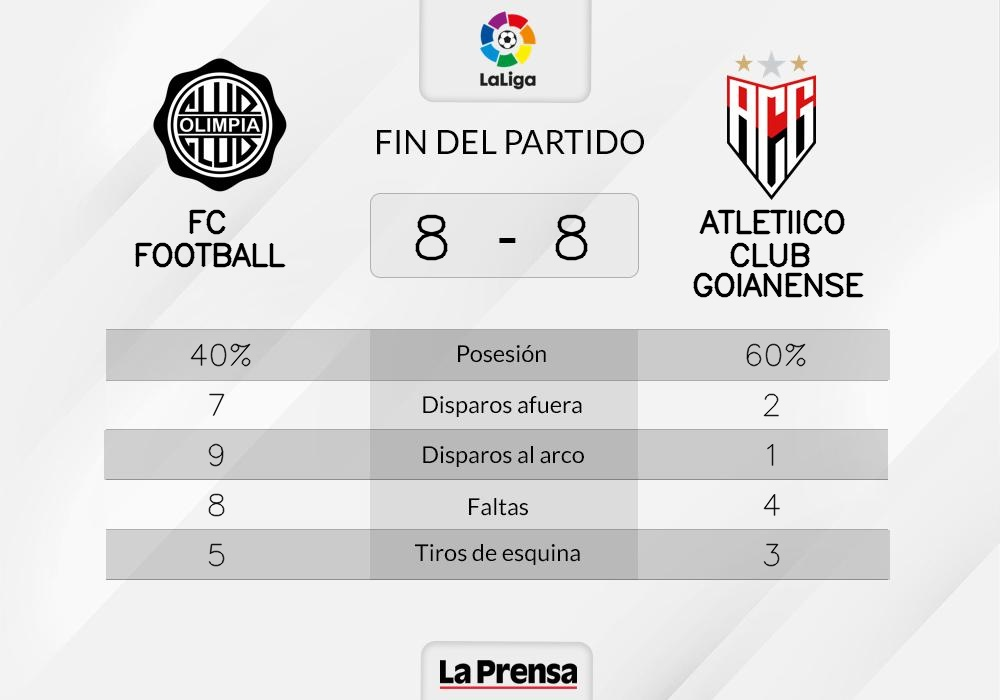
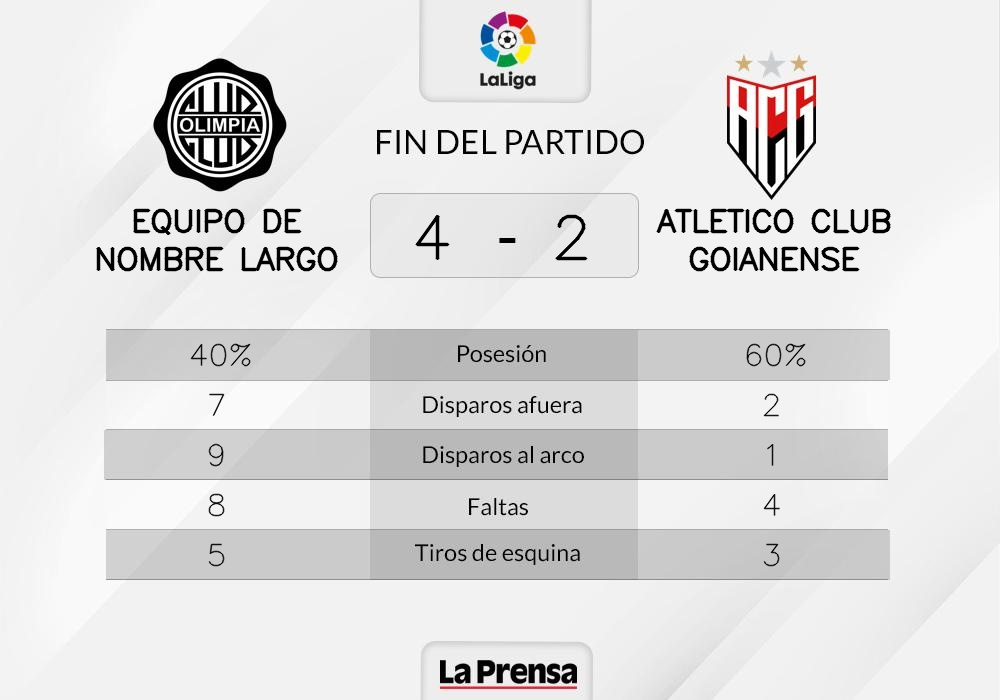
refactorin functions

diff --git a/textImage.py b/textImage.py
@@ -1,9 +1,9 @@
 # LIBRERIA PARA IMAGENES
-from ntpath import join
 from PIL import Image
 
 #LIBRERIA PARA TEXTOS
 import cv2
+import textwrap
 
 # REMOVER ARCHIVOS 
 from os import remove
@@ -13,12 +13,66 @@ from cv2 import getTextSize
 import requests as req
 from io import BytesIO
 
+#MANEJO DE ARREGLOS
+import numpy as np
 
-# VARIABLES
 
-# EQUIPO IZQUIERDA
+################## FUNCIONES ###################
+
+# ESCRIBE Y HACE WRAP DE LOS NOMBRES DE LOS EQUPOS DADO UN TEXTO Y COORDENADAS
+def writeTeam (text,sizex,sizey):
+
+    text_img = np.ones((40, 200))
+    font = cv2.FONT_HERSHEY_SIMPLEX
+
+    wrapped_text = textwrap.wrap(text, width=15)
+    x, y = 10, 50
+    font_size = 1
+    font_thickness = 2
+
+    for i, line in enumerate(wrapped_text):
+        textsize = cv2.getTextSize(line, font, font_size, font_thickness)[0]
+
+        gap = textsize[1] + 16
+
+        y = int((sizex + textsize[1]) / 2) + i * gap
+        x = int((sizey - textsize[0]) / 2)
+
+        cv2.putText(img, line, (x, y), font,
+                    font_size, 
+                    (0,0,0), 
+                    font_thickness, 
+                    lineType = cv2.LINE_AA)
+
+
+# ESCRIBE DATOS DE TABLA DE ESTADISTICAS
+def writeDataTable(arrayData,position):
+    for i in range(len(arrayData)):
+        calc = len(arrayData[i]) * 18 / 2
+        pos = position[0] - round(calc)
+        cv2.putText(img, arrayData[i], (pos, position[1] + i*50), cv2.FONT_HERSHEY_SIMPLEX, 1, (0,0,0), 1, cv2.LINE_AA, False)
+
+
+
+# FUNCION PARA CALCULA EL CENTRO POR EL TAMAÑO DEL STRING
+def calcularCentro(cadena, pos):
+    countLetterI = 0
+    calc = len(cadena) * 18 / 2
+    posIzq = pos - round(calc)
+    countLetterI = (cadena.count('I'))
+    return posIzq + (countLetterI*8)
+
+
+
+############################################### VARIABLES ###############################################
+
+
+################# EQUIPO IZQUIERDA ################# 
 logoIzq = 'https://cdn.api.everysport.com/logos/fotboll/olimpia_190518/1641998342298.png'
-gols_one = "8"
+
+nameTeamIzq = ("equipo de nombre largo").upper()
+
+gols_one = "4"
 
 
 # DATOS DE TABLA
@@ -30,9 +84,13 @@ equipoIzq = [
     "5"
 ]
 
-# EQUIPO DERECHA
+
+################# EQUIPO DERECHA ################# 
 logoDer = 'https://cdn.api.everysport.com/logos/fotboll/atletico_club_goianense_158404/1654764046179.png'
-gols_two = "8"
+
+nameTeamDer = ("Atletico Club Goianense").upper()
+
+gols_two = "2"
 
 
 # DATOS DE TABLA
@@ -45,40 +103,34 @@ equipoDer = [
 ]
 
 
-# REQUEST DE LOGO CENTRAL ( LIGA )
-try:                    
-    response = req.get('https://res.cloudinary.com/dkrmpxrnl/image/upload/v1653753172/laliga_dcastl.png')
-    LOGO = Image.open(BytesIO(response.content))
-    LOGO.thumbnail((150,150))   
-    LOGO.save('assets/laliga.png')
+#FUNCION QUE HACE LA PETICION Y GUARDA LA IMAGEN
+def requestImg(url,path):
+    try:                    
+        response = req.get(url)
+        LOGO = Image.open(BytesIO(response.content))
+        LOGO.thumbnail((150,150))   
+        LOGO.save(path)
 
-except:
-    LOGO = Image.open('assets/balon.png')
-    LOGO.save('assets/laliga.png')
-
-
-# REQUEST DE LOGO EQUIPO IZQUIERDO 
-try:
-    response = req.get(logoIzq)
-    LOGO = Image.open(BytesIO(response.content))
-    LOGO.thumbnail((150,150))
-    LOGO.save('assets/logopsg.png')
-
-except:
-    LOGO = Image.open('assets/balon.png')
-    LOGO.save('assets/logopsg.png')
+    except:
+        LOGO = Image.open(path)
+        LOGO.save(path)
 
 
-# REQUEST DE LOGO EQUIPO DERECHO 
-try:
-    response = req.get(logoDer)
-    LOGO = Image.open(BytesIO(response.content))
-    LOGO.thumbnail((150,150))
-    LOGO.save('assets/logo-barcelona.png')
 
-except:
-    LOGO = Image.open('assets/balon.png')
-    LOGO.save('assets/logo-barcelona.png')    
+
+################## LLAMADO DE FUNCIONES ###################     
+
+logoliga = 'https://res.cloudinary.com/dkrmpxrnl/image/upload/v1653753172/laliga_dcastl.png'
+
+
+# LLAMADO A LA FUNCION RECIBE EL URL Y EL PATH CON EL NOMBRE CON QUE SE GUARDARA EL ARCHIVO
+
+requestImg(logoliga,'assets/laliga.png')  
+
+requestImg(logoIzq,'assets/logoizq.png')
+
+requestImg(logoDer,'assets/logoder.png')
+
 
 
 #LOGOS
@@ -87,8 +139,8 @@ except:
 img1 = Image.open('assets/img-white.jpg')
 
 # ABRE LOGOS
-logo1 = Image.open('assets/logopsg.png')
-logo2 = Image.open('assets/logo-barcelona.png')
+logo1 = Image.open('assets/logoizq.png')
+logo2 = Image.open('assets/logoder.png')
 logo3 = Image.open('assets/laliga.png')
 
 # RESIZE DE LOGOS
@@ -115,115 +167,25 @@ img1_copy.paste(logo2, (727,50), logo2)
 img1_copy.save('assets/img_logos.jpg')
 
 
-# FUNCION PARA CALCULA EL CENTRO POR EL TAMAÑO DEL STRING
-def calcularCentro(cadena, pos):
-    countLetterI = 0
-    calc = len(cadena) * 18 / 2
-    posIzq = pos - round(calc)
-    countLetterI = (cadena.count('I'))
-    return posIzq + (countLetterI*8)
-
-
 # TEXTOS
 img = cv2.imread('assets/img_logos.jpg')
 
-# GOLES EQUIPO IZQUERDA
-position = (412,258)
-
-# GOLES EQUIPO DERECHA
-
-position2 = (552,258)
-
-
-# CONFIG. DE FUENTE DE GENERALES DE FUENTES DE NUMERO DE GOLES
-font = cv2.FONT_HERSHEY_SIMPLEX
-fontSize = 2
-fontColor = (0,0,0)
-fontWeight = 2
-
 
 # ESCRIBE GOLES EQUIPO IZQUERDA
-cv2.putText(img, gols_one, (calcularCentro(gols_one, 420),258), font, fontSize, fontColor, fontWeight, cv2.LINE_AA, False)
+cv2.putText(img, gols_one, (calcularCentro(gols_one, 420),258), cv2.FONT_HERSHEY_SIMPLEX, 2, (0,0,0), 2, cv2.LINE_AA, False)
 
 # ESCRIBE GOLES EQUIPO DERECHA
-cv2.putText(img, gols_two,(calcularCentro(gols_two, 560),258), font, fontSize, fontColor, fontWeight, cv2.LINE_AA, False) 
+cv2.putText(img, gols_two,(calcularCentro(gols_two, 560),258), cv2.FONT_HERSHEY_SIMPLEX, 2, (0,0,0), 2, cv2.LINE_AA, False) 
 
 
-# CONFIG. DE NOMBRE DE LOS EQUIPOS
+# LLAMADO DE FUNCIONEN QUE ESCRIBE NOMBRE DE LOS EQUIPOS
+writeTeam(nameTeamIzq,440,435)
+writeTeam(nameTeamDer,440,1550)
 
-nameTeamIzq = ("fc football").upper().split()
-nameTeamDer = ("Atletiico Club Goianense").upper().split()
+# LLAMADO DE FUNCIONEN QUE ESCRIBE DATOS EN TABLE 
+writeDataTable(equipoIzq, (215,365))
+writeDataTable(equipoDer, (770,365))
 
-
-
-    
-sizeTeamDer = len(nameTeamDer)
-sizeTeamIzq = len(nameTeamIzq)
-
-
-fontNameTeam = cv2.FONT_HERSHEY_SIMPLEX
-fontSizeTeam = 1
-fontColorTeam = (0,0,0)
-fontWeightTeam = 2
-
-
-# ESCRIBE NOMBRE DE EQUIPO IZQUERDA
-if sizeTeamIzq == 1:
-    cv2.putText(img, (nameTeamIzq[0]), (calcularCentro(nameTeamIzq[0], 205),232), fontNameTeam, fontSizeTeam, fontColorTeam, fontWeightTeam, cv2.LINE_AA, False)
-if sizeTeamIzq == 2:
-    cv2.putText(img, (nameTeamIzq[0]), (calcularCentro(nameTeamIzq[0], 205),232), fontNameTeam, fontSizeTeam, fontColorTeam, fontWeightTeam, cv2.LINE_AA, False)
-    cv2.putText(img, (nameTeamIzq[1]), (calcularCentro(nameTeamIzq[1], 205),265), fontNameTeam, fontSizeTeam, fontColorTeam, fontWeightTeam, cv2.LINE_AA, False)
-if sizeTeamIzq >= 3:
-    cv2.putText(img, (nameTeamIzq[0]), (calcularCentro(nameTeamIzq[0], 205),232), fontNameTeam, fontSizeTeam, fontColorTeam, fontWeightTeam, cv2.LINE_AA, False)
-    cv2.putText(img, (nameTeamIzq[1]), (calcularCentro(nameTeamIzq[1], 205),265), fontNameTeam, fontSizeTeam, fontColorTeam, fontWeightTeam, cv2.LINE_AA, False)
-    cv2.putText(img, (nameTeamIzq[2]), (calcularCentro(nameTeamIzq[2], 205),295), fontNameTeam, fontSizeTeam, fontColorTeam, fontWeightTeam, cv2.LINE_AA, False)
-
-# ESCrIBE NOMBRE DE EQUIPO DERECHA
-
-
-
-# ESCRIBE NOMBRE DE EQUIPO IZQUERDA
-if sizeTeamDer == 1:
-    cv2.putText(img, nameTeamDer[0], (calcularCentro(nameTeamDer[0], 765),232), fontNameTeam, fontSizeTeam, fontColorTeam, fontWeightTeam, cv2.LINE_AA, False)
-if sizeTeamDer == 2:
-    cv2.putText(img, nameTeamDer[0], (calcularCentro(nameTeamDer[0], 765),232), fontNameTeam, fontSizeTeam, fontColorTeam, fontWeightTeam, cv2.LINE_AA, False)
-    cv2.putText(img, nameTeamDer[1], (calcularCentro(nameTeamDer[1], 765),265), fontNameTeam, fontSizeTeam, fontColorTeam, fontWeightTeam, cv2.LINE_AA, False)
-if sizeTeamDer >= 3:
-    cv2.putText(img, nameTeamDer[0], (calcularCentro(nameTeamDer[0], 765),232), fontNameTeam, fontSizeTeam, fontColorTeam, fontWeightTeam, cv2.LINE_AA, False)
-    cv2.putText(img, nameTeamDer[1], (calcularCentro(nameTeamDer[1], 765),265), fontNameTeam, fontSizeTeam, fontColorTeam, fontWeightTeam, cv2.LINE_AA, False)
-    cv2.putText(img, nameTeamDer[2], (calcularCentro(nameTeamDer[2], 765),295), fontNameTeam, fontSizeTeam, fontColorTeam, fontWeightTeam, cv2.LINE_AA, False)
-
-
-# CONFIG. DE FUENTE DE DATOS DE TABLA DE ESTADISTICAS
-
-fontTable = cv2.FONT_HERSHEY_SIMPLEX
-fontSizeTable = 1
-fontColorTable = (0,0,0)
-fontWeightTable = 1
-
-
-
-# posIzq = 775 - round(calc)
-# posDer = 775 - round(calc)
-
-positionTableIzq = (215,365)
-positionTableDer = (770,365)
-
-
-# ESCIBE DATOS DE TABLA DE ESTADISTICAS
-
-# EQUIPO IZQUERDA
-for i in range(len(equipoIzq)):
-        calc = len(equipoIzq[i]) * 18 / 2
-        posIzq = positionTableIzq[0] - round(calc)
-       
-        cv2.putText(img, equipoIzq[i], (posIzq, positionTableIzq[1] + i*50), fontTable, fontSizeTable, fontColorTable, fontWeightTable, cv2.LINE_AA, False)
-
-# EQUIPO DERECHA
-for i in range(len(equipoDer)):
-    calc = len(equipoDer[i]) * 18 / 2
-    posDer = positionTableDer[0] - round(calc)
-    cv2.putText(img, equipoDer[i], (posDer, positionTableDer[1] + i*50), fontTable, fontSizeTable, fontColorTable, fontWeightTable, cv2.LINE_AA, False)
 
 
 # GUARDAR IMAGEN GENERADA CON TEXTOS
@@ -234,8 +196,8 @@ remove('assets/img_logos.jpg')
 
 # BORRA LOGOS QUE SE GUARDAN EN LA PETICION HTTP Y SE INCLUYERON EN LA IMAGEN
 remove('assets/laliga.png')
-remove('assets/logopsg.png')
-remove('assets/logo-barcelona.png')
+remove('assets/logoizq.png')
+remove('assets/logoder.png')
 
 cv2.imshow('img_generated',img)
 cv2.waitKey()
